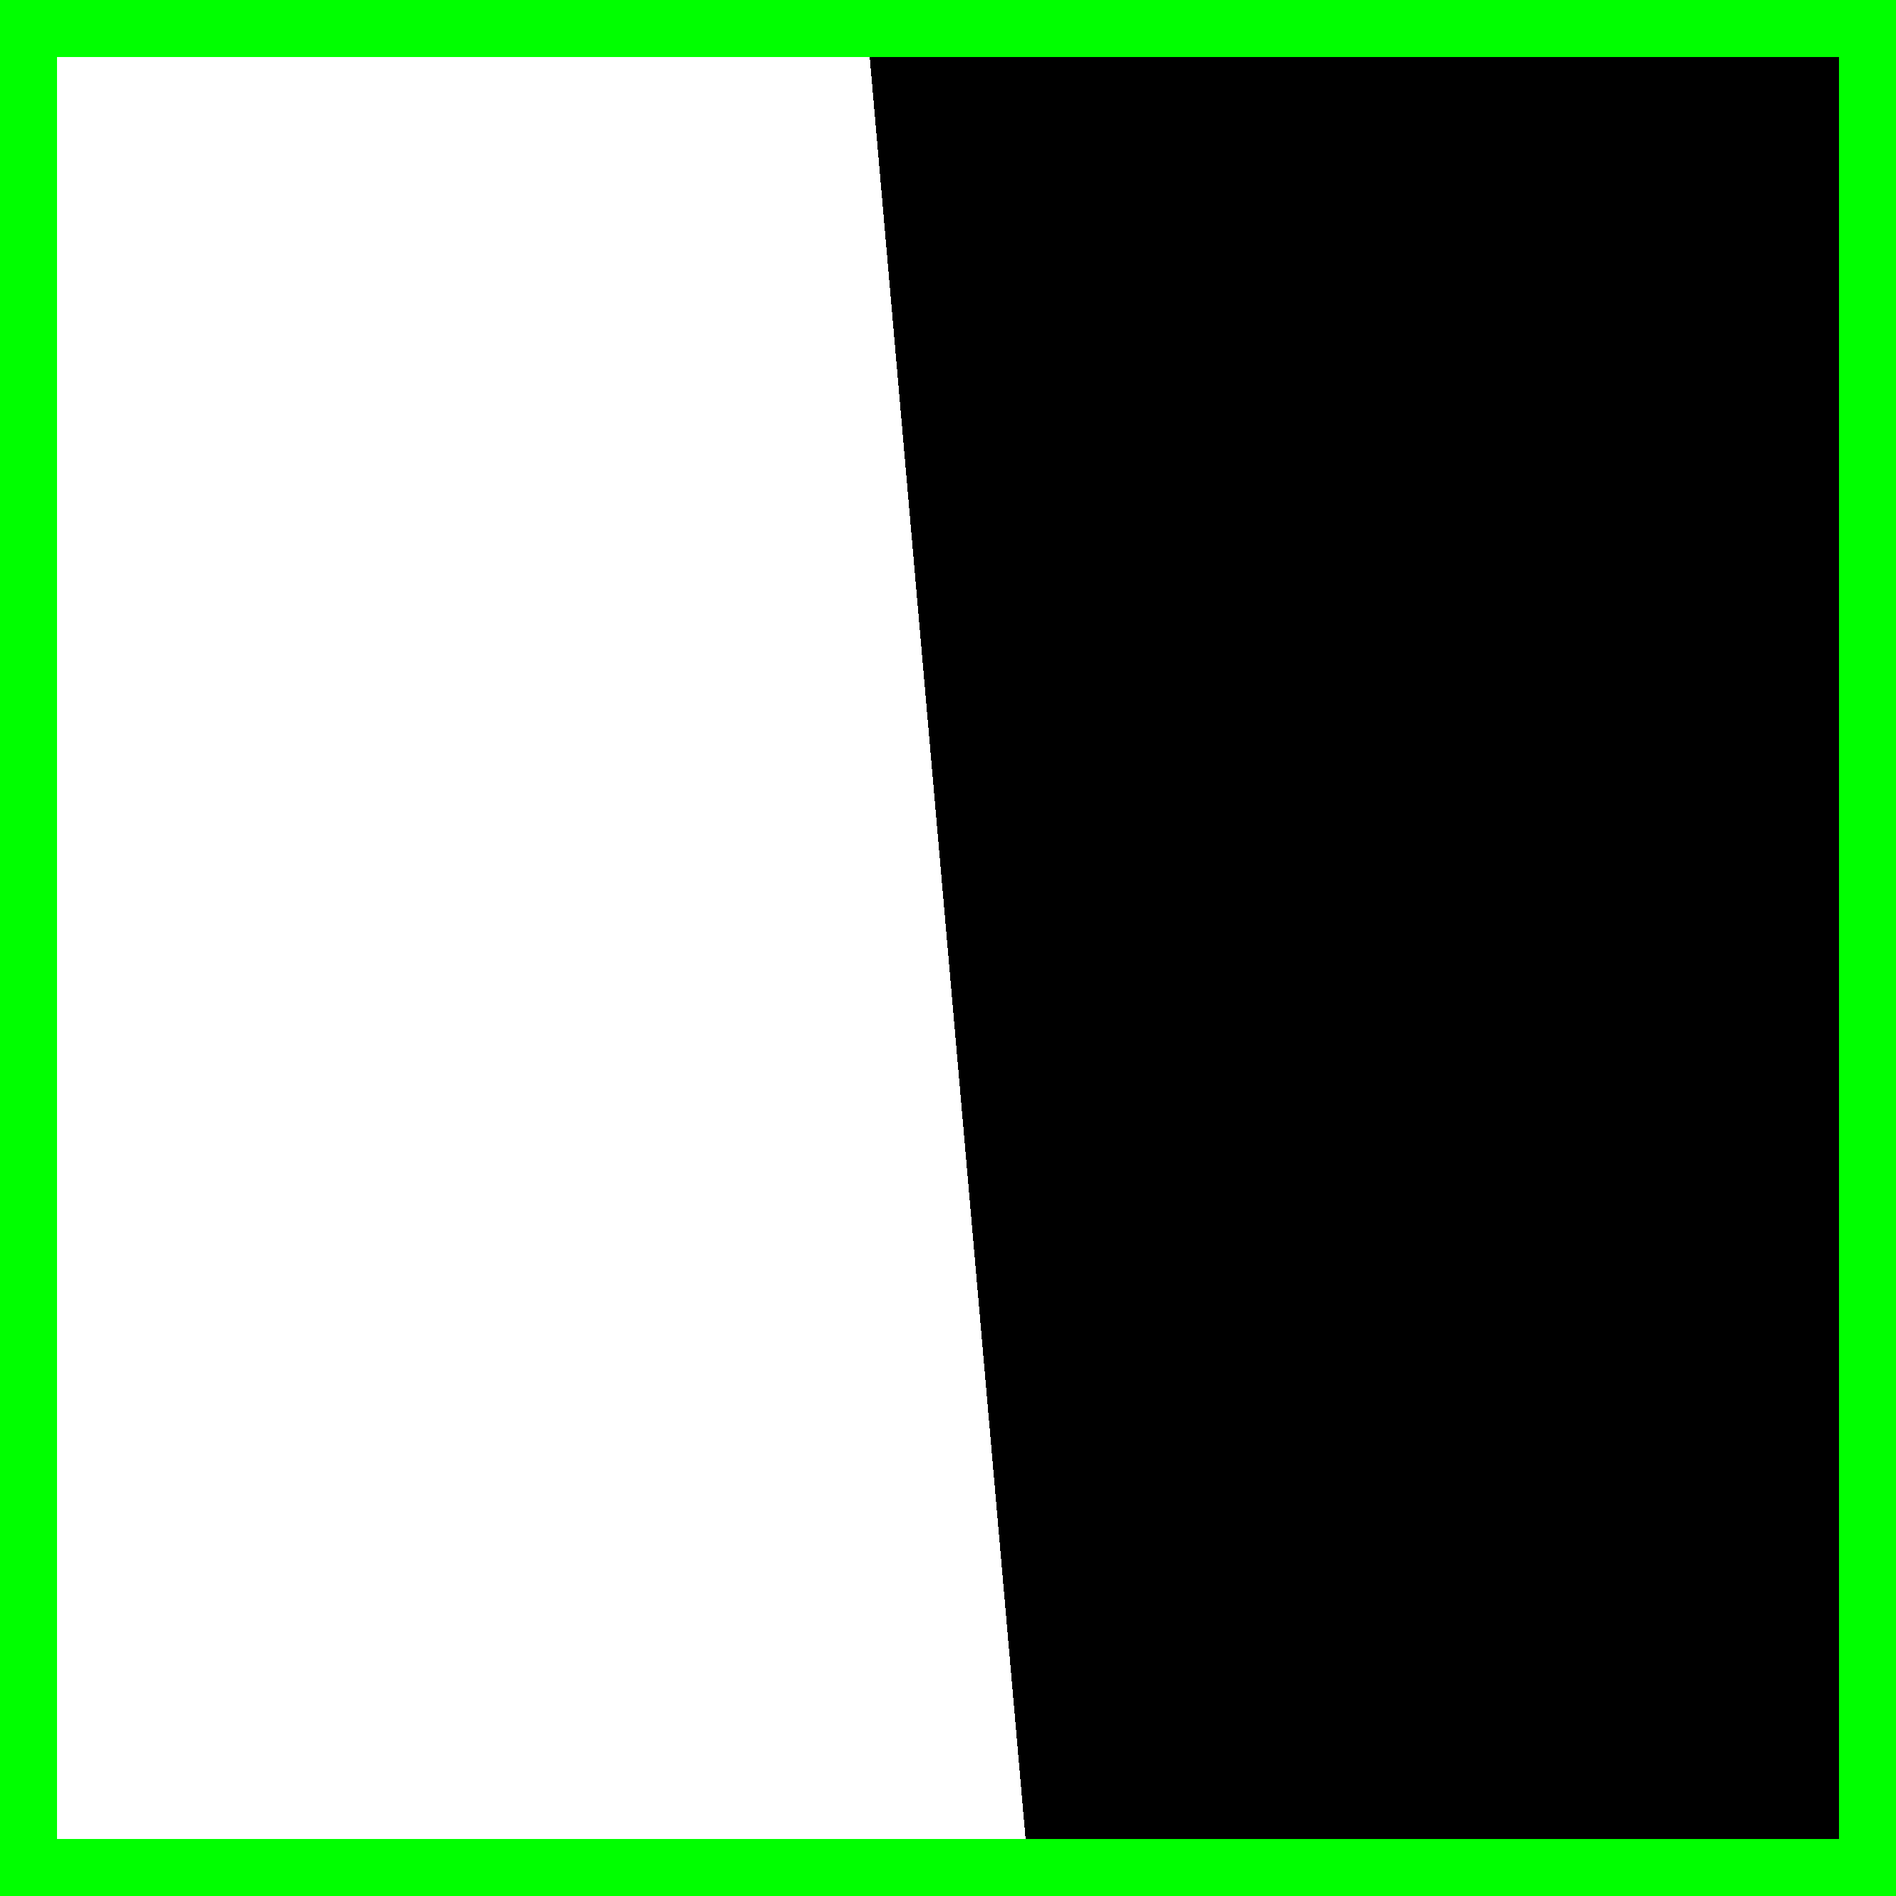
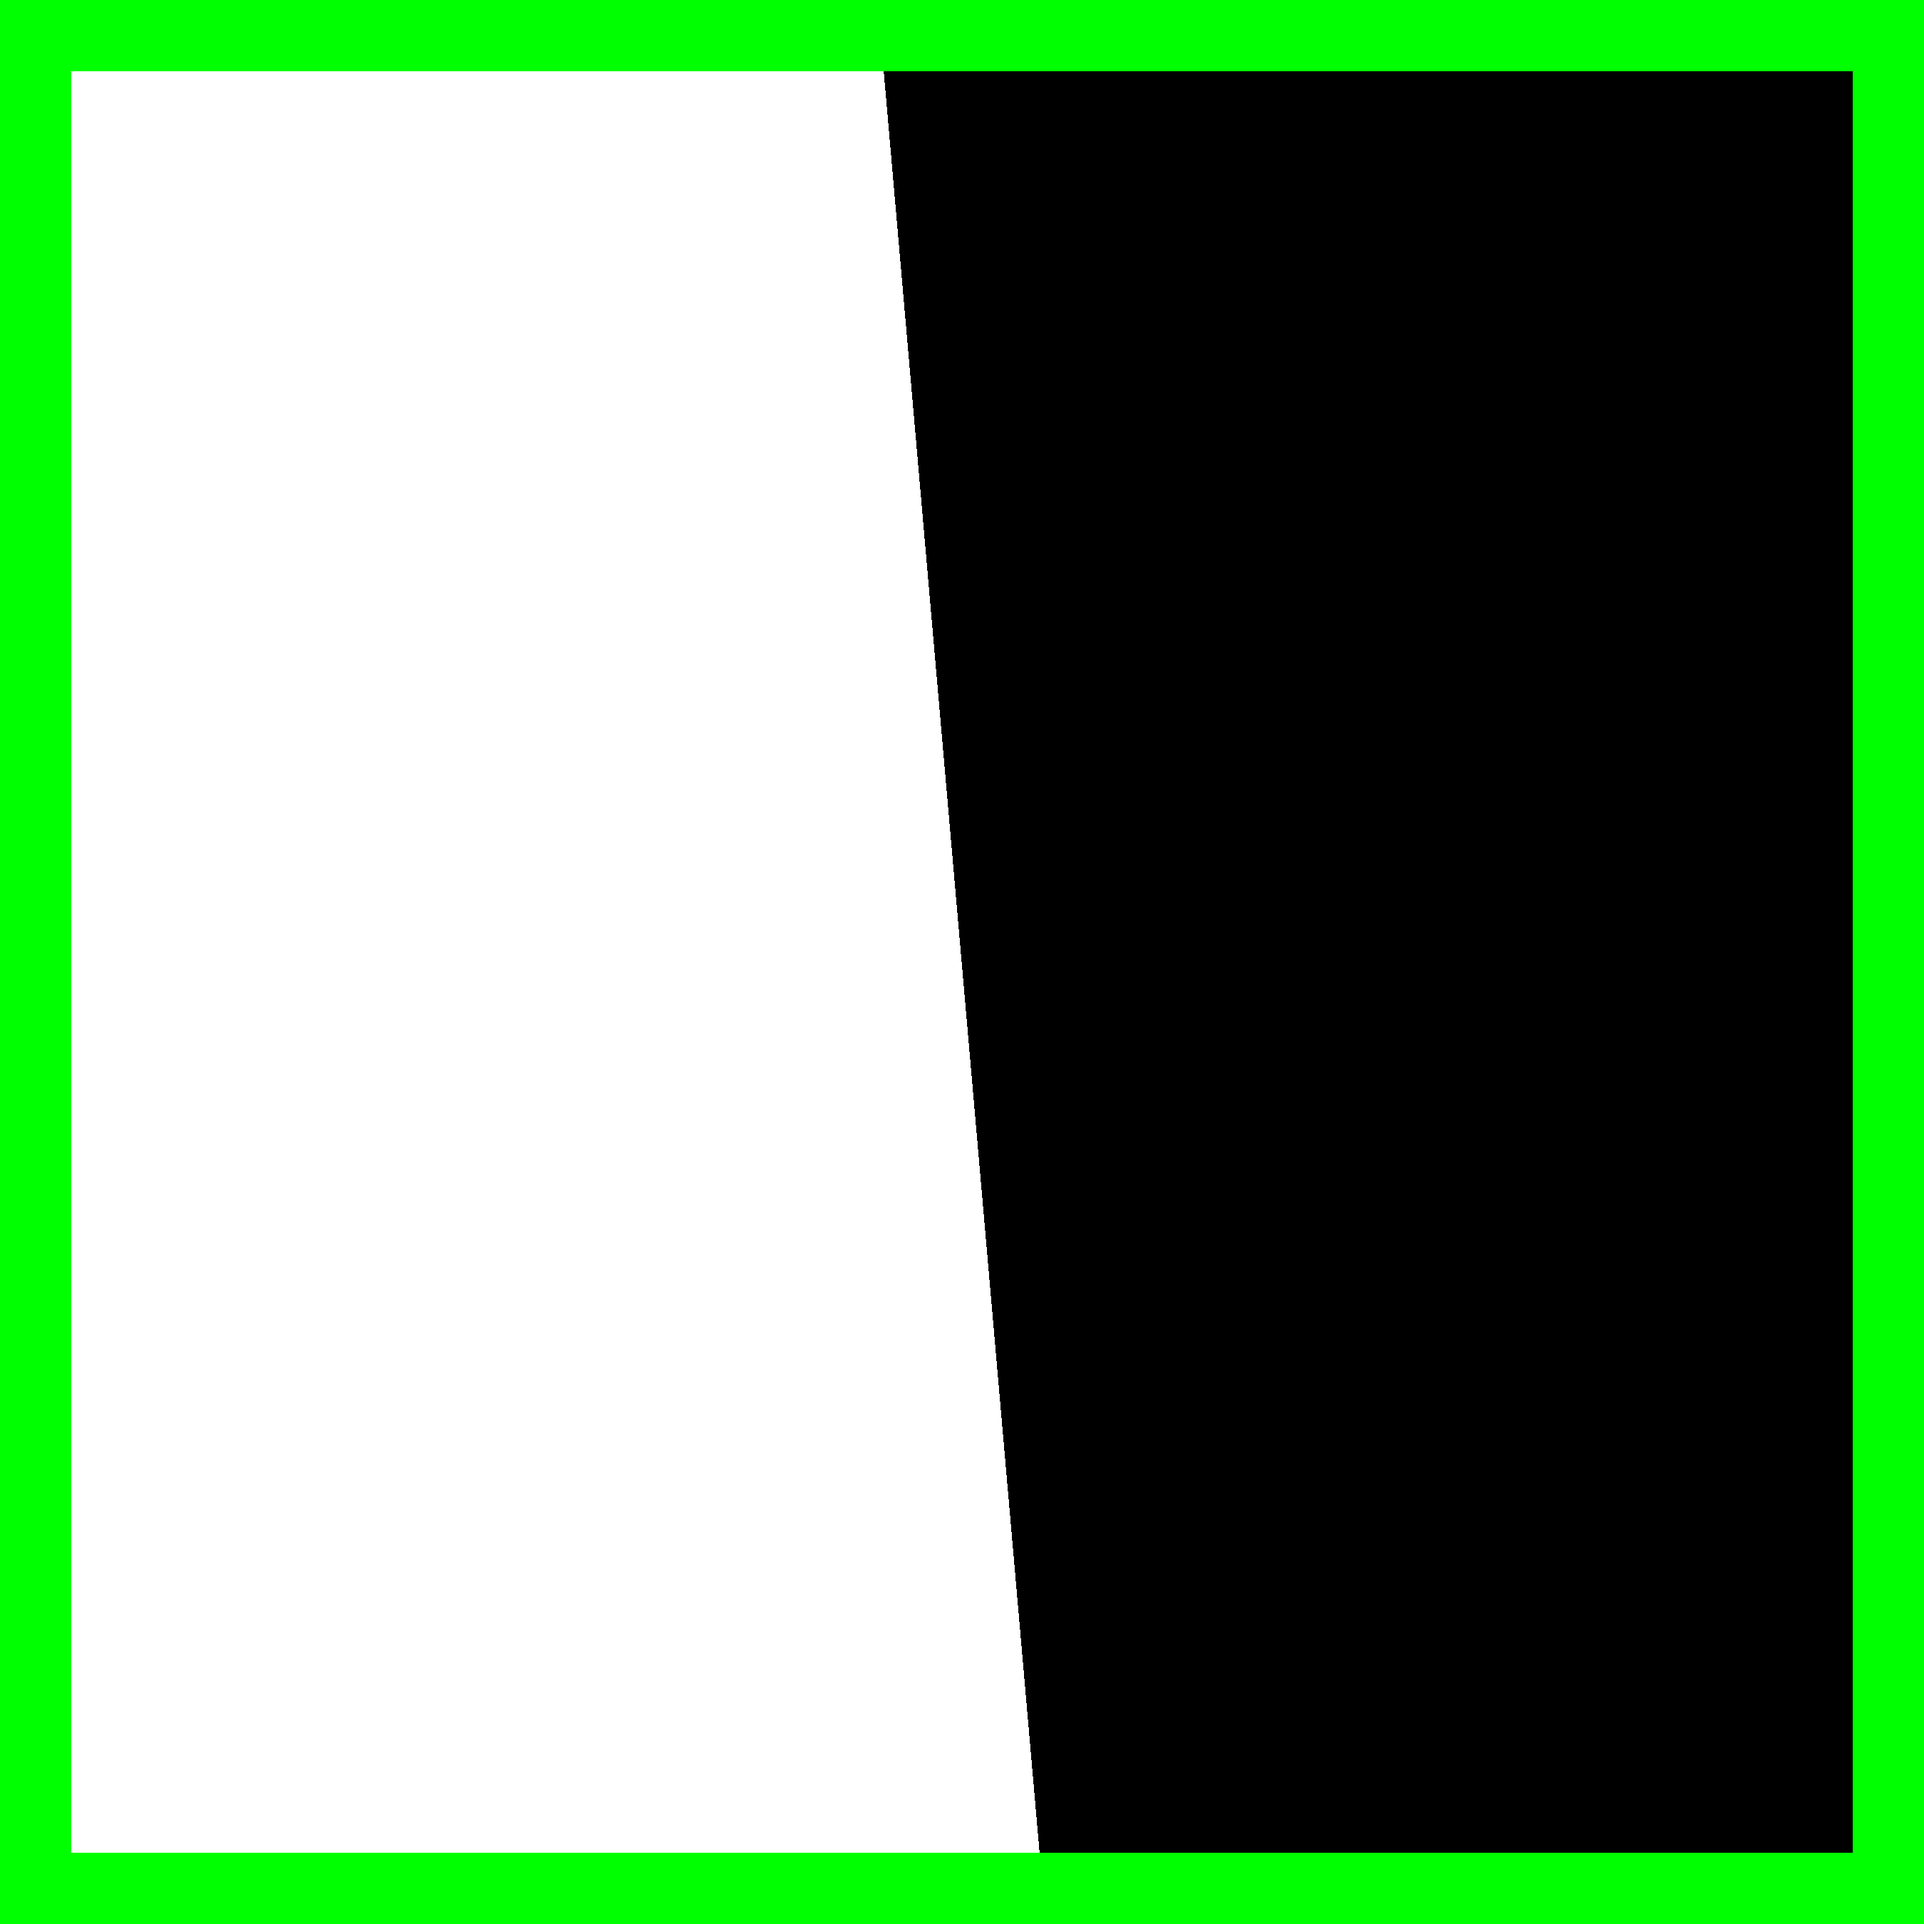
See how image shows up in github

Changed region(s): [[0.0312, 0.0312, 0.9673, 0.9673]]

diff --git a/target_scripts/slanted_edge.py b/target_scripts/slanted_edge.py
@@ -19,7 +19,7 @@ def array_to_image(array, image_name):
 image_width = 2500
 image_height = 2500
 slant_angle = math.radians(5)
-margin = 80
+margin = 100
 
 x_center = (image_width - 1) / 2
 y_center = (image_height - 1) / 2

diff --git a/README.md b/README.md
@@ -1,12 +1,16 @@
 # Optical Model Validation
 
 ## TODO:
-- Finish Zemax Setup
-- Add Zemax comparison instructions to B-F
+- Finish "Zemax Setup" set up
+- Add Zemax comparison instructions to prcedures
+- "What can we conclude" in overview
 - Fix FOV/EFL table
-- FOV/EFL procedure
 - MTF procedure
 - Add images
+    - "ensure graph looks like this"
+    - combo image of targets
+    - experiment setup
+    - 
 
 ## Overview
 This repository contains the tools and instructions needed to experimentally validate the accuracy of a digital optical model (e.g., Ansys Zemax OpticStudio) against its corresponding physical counterpart. 
@@ -45,8 +49,10 @@ optical_model_validation/
     │   ├── best_focus.py
     │   ├── fov_efl.py
     │   └── mtf_fp.py
+    ├── figures/               # Figures displayed in the README
     ├── requirements.txt       # Required Python packages
     └── README.md              # Project documentation
+
 ```
 
 ## Preparation
@@ -76,17 +82,22 @@ Open a terminal and run the following commands:
     pip install -r requirements.txt
     ```
 
+3. Create an empty folder named `test_images` inside the project:
+
+   ```bash
+   mkdir test_images
+
 ### Zemax Setup
 
 Install [Ansys Zemax OpticStudio](https://ansys.synopsys.com/en-gb//academic/students/ansys-student)
 
-### Physical Setup 
+### General Setup 
 
 1. Print targets on matte-white paper/cardstock with the highest print quality setting available. Disable any options such as "fit to page" that changes the target dimensions 
 
 2. Secure camera to test bench
 
-3. Align targets onto a vertical surface, perpendicular and centered to the camera's optical axis
+3. Align targets onto a vertical surface, perpendicular to the camera's optical axis
 
 4. Position camera so that targets appear as large as possible while ensuring the margins fit comfortably within the image
 
@@ -94,29 +105,39 @@ Install [Ansys Zemax OpticStudio](https://ansys.synopsys.com/en-gb//academic/stu
 
 6. Disable automatic image adjustments where possible
 
-7. Record results in [this spreadsheet template](https://docs.google.com/spreadsheets/d/19bQ3YoSR_WSW7G-d8i1SoJNDLfoneezhGHcqGAoD-7E/edit?usp=sharing)
+8. Record results in [this spreadsheet template](https://docs.google.com/spreadsheets/d/19bQ3YoSR_WSW7G-d8i1SoJNDLfoneezhGHcqGAoD-7E/edit?usp=sharing)
 
 ## Test Procedures
 
 ### Best Focus
 
-1. Prepare Siemens star target
-2. Establish a rough expected best-focus position. Offset the thread by 0.80mm from the expected best-focus position
-3. Capture an image of the target. Save the image file in test_images/ and rename the image with thread position information
-4. Adjust the thread by an increment of 0.10mm towards the direction of the expected best-focus position
-5. Perform a "coarse sweep". Repeat steps 3-4 until 15 images are captured. Ensure each increment is constant for this step
-6. Run the best-focus analysis program using the images taken in the last sweep
-7. Determine a new expected best focus position near the peak of the "Image sharpness vs. thread position" graph
-8. Offset the thread by 0.25mm from the new expected best-focus position.
-9. Perform a "fine sweep". Repeat steps 5 and 6 with a new increment of 0.03mm. 
-10. Determine the best focus position from the peak of the graph
-11. Compare 
-12. Record thread position and corresponding laplacian value outputs from the terminal into the data entry template
+1. Prepare Siemens star target and general setup
+2. Align the center of the target with the camera's optical axis
+3. Measure and record parallel to the optical axis the distance between target plane and front face of the lens housing
+4. Establish a rough expected best-focus position. Offset the thread by 0.80mm from the expected best-focus position
+5. Capture an image of the target. Save the image file in test_images/ and rename the image with thread position information
+6. Adjust the thread by an increment of 0.10mm towards the direction of the expected best-focus position
+7. Perform a "coarse sweep". Repeat steps 5 and 6 until 15 images are captured. Ensure each increment is constant for this step
+8. Run the "best_focus.py" analysis script using the images taken in the last sweep
+9. Determine a new expected best focus position near the peak of the "Image sharpness vs. thread position" graph
+10. Offset the thread by 0.25mm from the new expected best-focus position.
+11. Perform a "fine sweep". Take 15 more images with a thread position increment of 0.03mm. 
+12. Determine the best focus position from the peak of the graph
+13. Compare 
+14. Record thread position and corresponding laplacian value outputs from the terminal into the data entry template
 
 ### Field of View and Effective Focal Length
 
-1. Prepare checkerboard target
+1. Prepare checkerboard target and general setup
+2. Measure the size of each square in milimeters
+3. Position camera so that target takes up roughly 50% - 80% of the frame
+3. Align the center of the target with the camera's optical axis
+4. Measure and record parallel to the optical axis the distance between target plane and front face of the lens housing
+5. Capture at least 3 images without adjusting the setup
+6. Run "fov_efl.py" analysis script with only images taken from the same object distance
+7. Perform steps 3-7 for 2 other distances
+8. Record mean EFL, horizontal half-field, and vertical half-field for all 3 trials 
 
 ### Modulation Transfer Function (MTF)
 
-
+1. Use the thread position determined in "Best Focus " for the latter procedures
